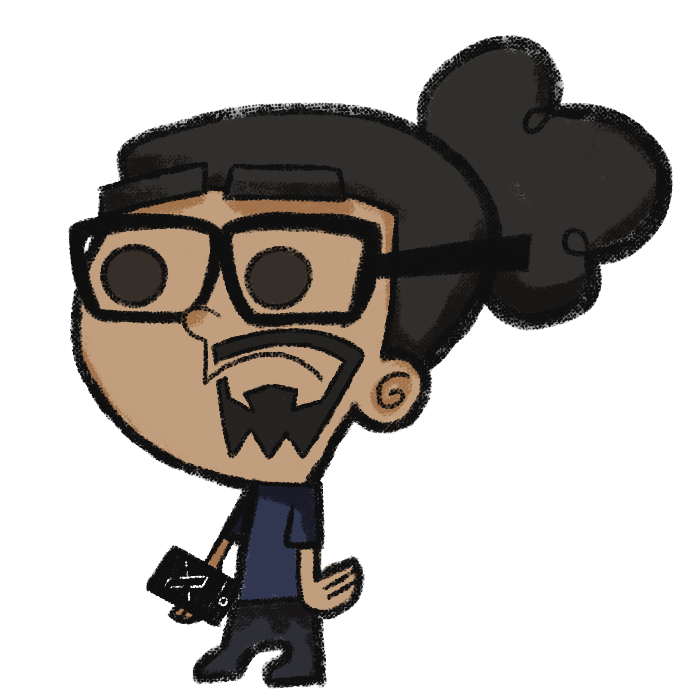
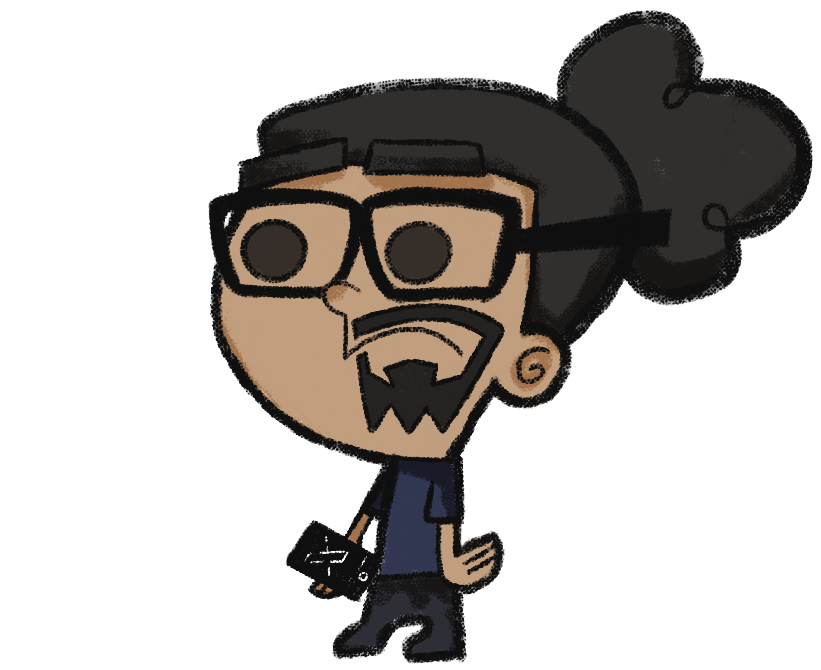
Toni Tonitea con las colisiones y se Tonea bien Toniicamente, tuiteatoñete

diff --git a/src/scenes/mainScene.js b/src/scenes/mainScene.js
@@ -89,7 +89,7 @@ export default class mainScene extends Phaser.Scene {
         };
 
         // === JUGADOR (Nutria) ===
-        this.otter = new Otter(this, this.scale.width / 2, this.scale.height / 2, 20, 'toni', 0.1);
+        this.otter = new Otter(this, this.scale.width / 2, this.scale.height / 2, 20, 'toni', 0.1, 0.25);
         this.cameras.main.startFollow(this.otter);
         this.navi = new Navi(this, this.otter, 80, 'otter', 0.15, 17);
 
@@ -129,13 +129,13 @@ export default class mainScene extends Phaser.Scene {
 
     createNPCs() {
         const npcData = this.cache.json.get('prueba');
-        this.Toni = new NPC(this, 900, 700, 'toni', npcData, this.otter, this.minigamesInfo.WackAMole);
+        this.Toni = new NPC(this, 900, 700, 'toni', npcData, this.otter, this.minigamesInfo.WackAMole, 0.1, 0.25);
 
         const cleonRomeData = this.cache.json.get('cleonRome');
-        this.Cleon = new NPC(this, 1000, 700, 'toni', cleonRomeData, this.otter, this.minigamesInfo.LightUpGhosts);
+        this.Cleon = new NPC(this, 1000, 700, 'toni', cleonRomeData, this.otter, this.minigamesInfo.LightUpGhosts, 0.1, 0.25);
 
         const ishmaelData = this.cache.json.get('ishmael');
-        this.Ishmael = new NPC(this, 1100, 700, 'toni', ishmaelData, this.otter, this.minigamesInfo.Puzzle);
+        this.Ishmael = new NPC(this, 1100, 700, 'toni', ishmaelData, this.otter, this.minigamesInfo.Puzzle, 0.1, 0.25);
     }
 
     nextDay() {

diff --git a/src/characters/npc.js b/src/characters/npc.js
@@ -2,7 +2,7 @@ import DialogText from "../dialog_plugin.js";
 
 export default class NPC extends Phaser.GameObjects.Sprite {
 
-    constructor(scene, x, y, texture, data, player, minigameInfo, scale = 0.1) {
+    constructor(scene, x, y, texture, data, player, minigameInfo, scale = 0.1, colliderWidthFactor = 1) {
         super(scene, x, y, texture);
         this.scene.add.existing(this);
 
@@ -24,11 +24,11 @@ export default class NPC extends Phaser.GameObjects.Sprite {
         this.setScale(scale);
         scene.physics.add.existing(this, true);
         
-        this.zone = scene.add.zone(x, y).setSize(this.width*scale + 10, (this.height*scale * 0.2) + 10);
+        this.zone = scene.add.zone(x, y).setSize(this.width*scale*colliderWidthFactor + 10, (this.height*scale * 0.2) + 10);
         scene.physics.add.existing(this.zone, true);
         scene.physics.add.existing(this, true);
 
-        this.body.setSize(this.width*scale, (this.height*scale) * 0.2);
+        this.body.setSize(this.width*scale*colliderWidthFactor, (this.height*scale) * 0.2);
         this.body.y = this.body.y + ((this.height*scale / 2) - (this.body.height / 2));
         this.zone.body.y = this.zone.body.y + ((this.height*scale / 2) - (this.body.height / 2));
 

diff --git a/src/characters/otter.js b/src/characters/otter.js
@@ -4,15 +4,16 @@ export default class Otter extends Phaser.GameObjects.Sprite {
      * @param {number} x - coordenada x
      * @param {number} y - coordenada y 
      */
-    constructor(scene, x, y, speed,  texture, size = 1, frame) {
+    constructor(scene, x, y, speed,  texture, size = 1, colliderWidthFactor = 1, frame) {
         super(scene, x, y, texture, frame = 0);
-
-        this.setScale(size);
+        
         this.scene.add.existing(this); //Nos añadimos a la escena para ser mostrados.
+        this.setScale(size);
+
         scene.physics.add.existing(this);
 
-        this.body.setSize(this.width, (this.height) * 0.2);
-        this.body.setOffset(0 , this.height - 100);
+        this.body.setSize(this.width * colliderWidthFactor, (this.height) * 0.2);
+        this.body.setOffset((this.width - (this.width*colliderWidthFactor))/2, this.height-100);
 
         this.speed = speed;
 
